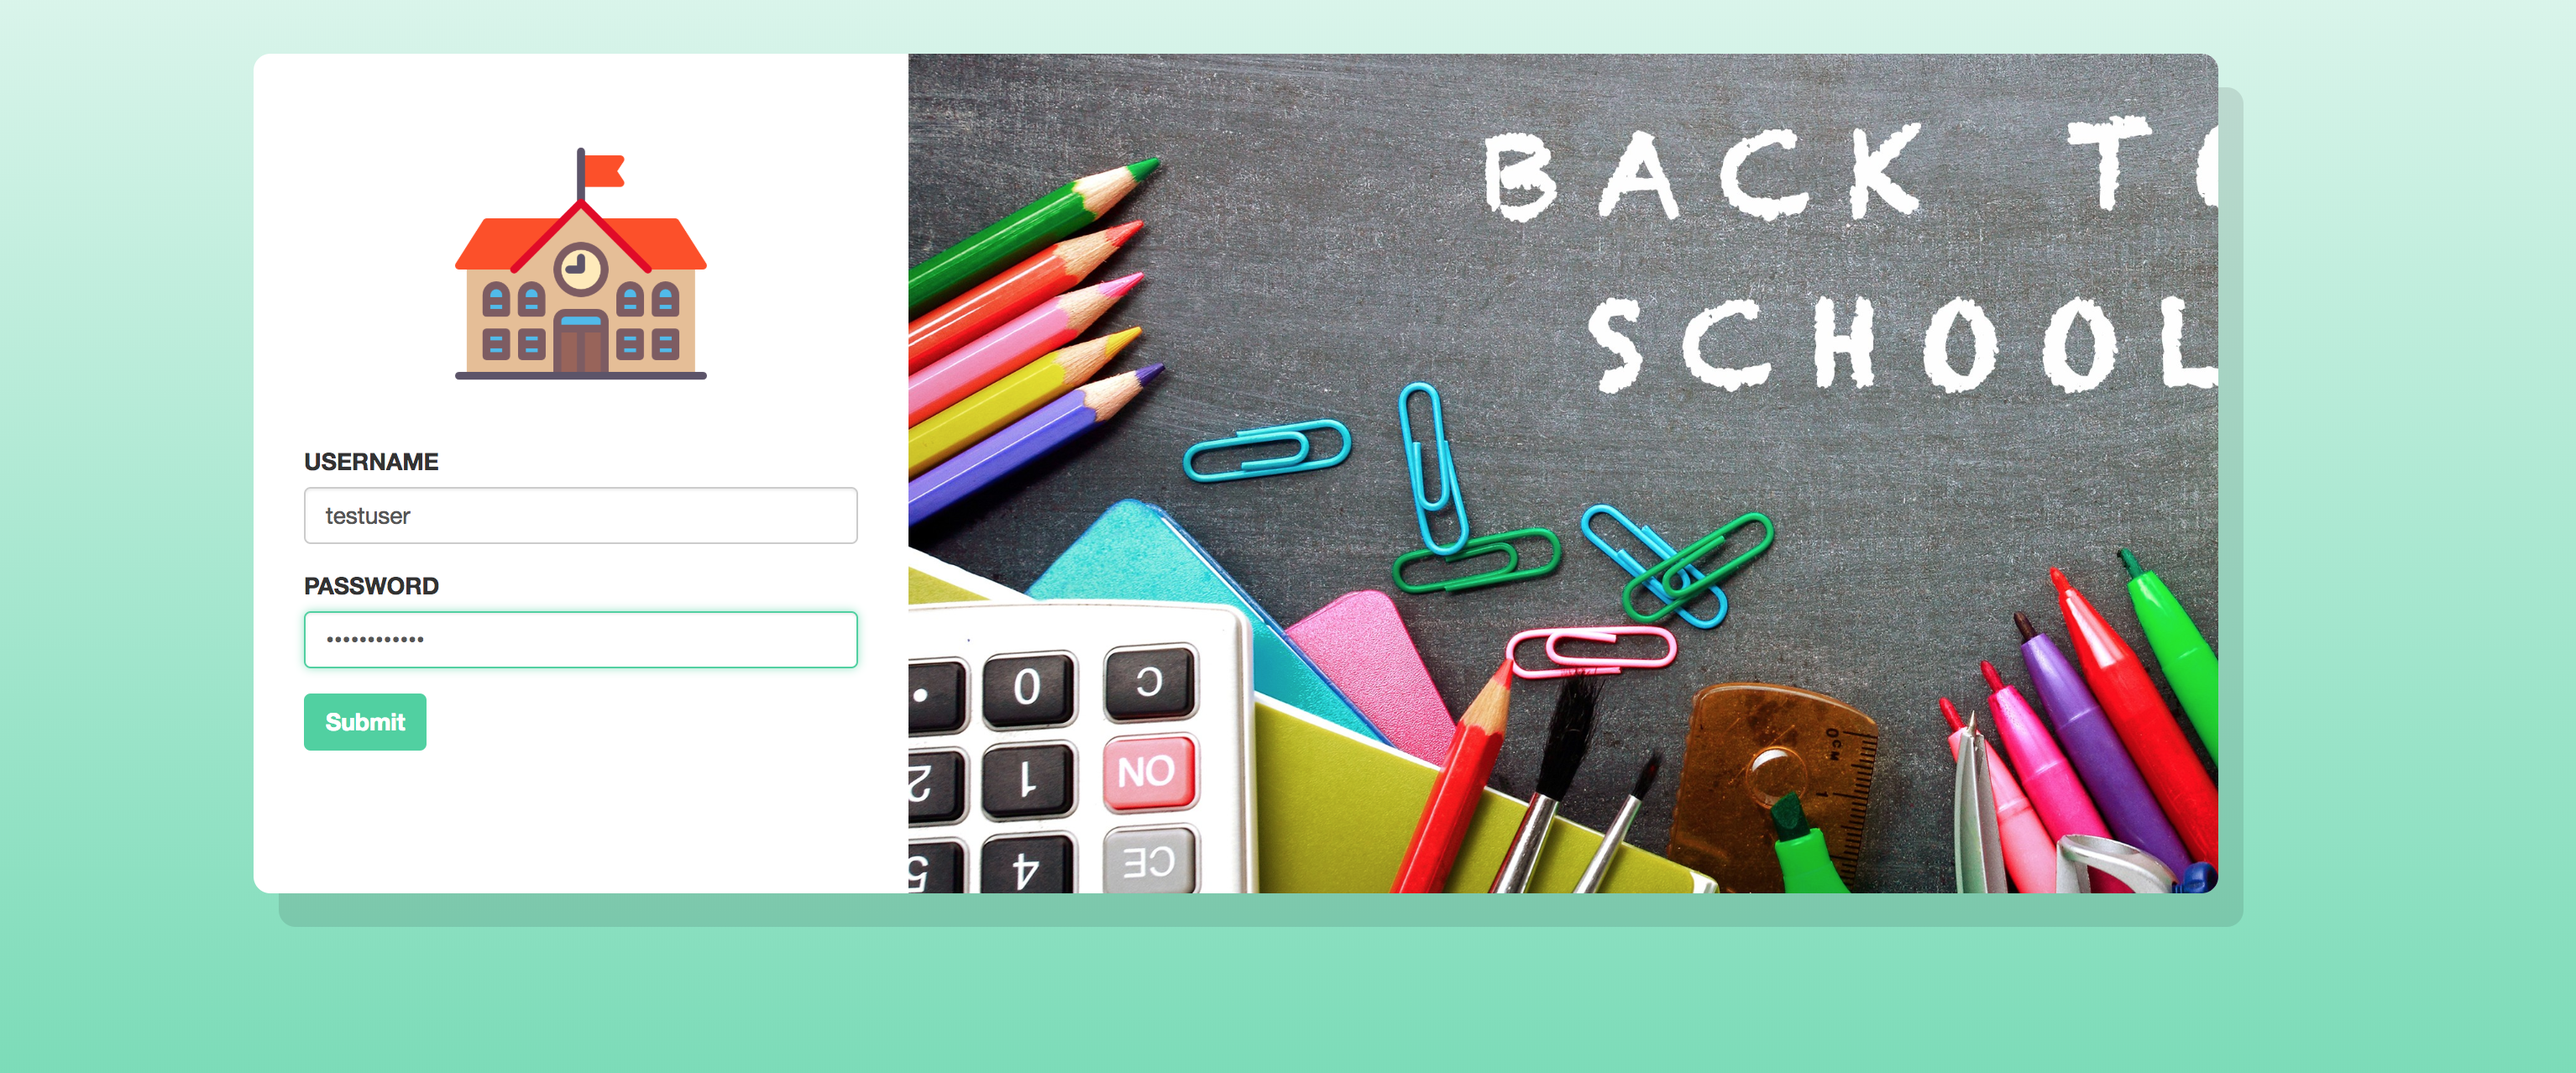
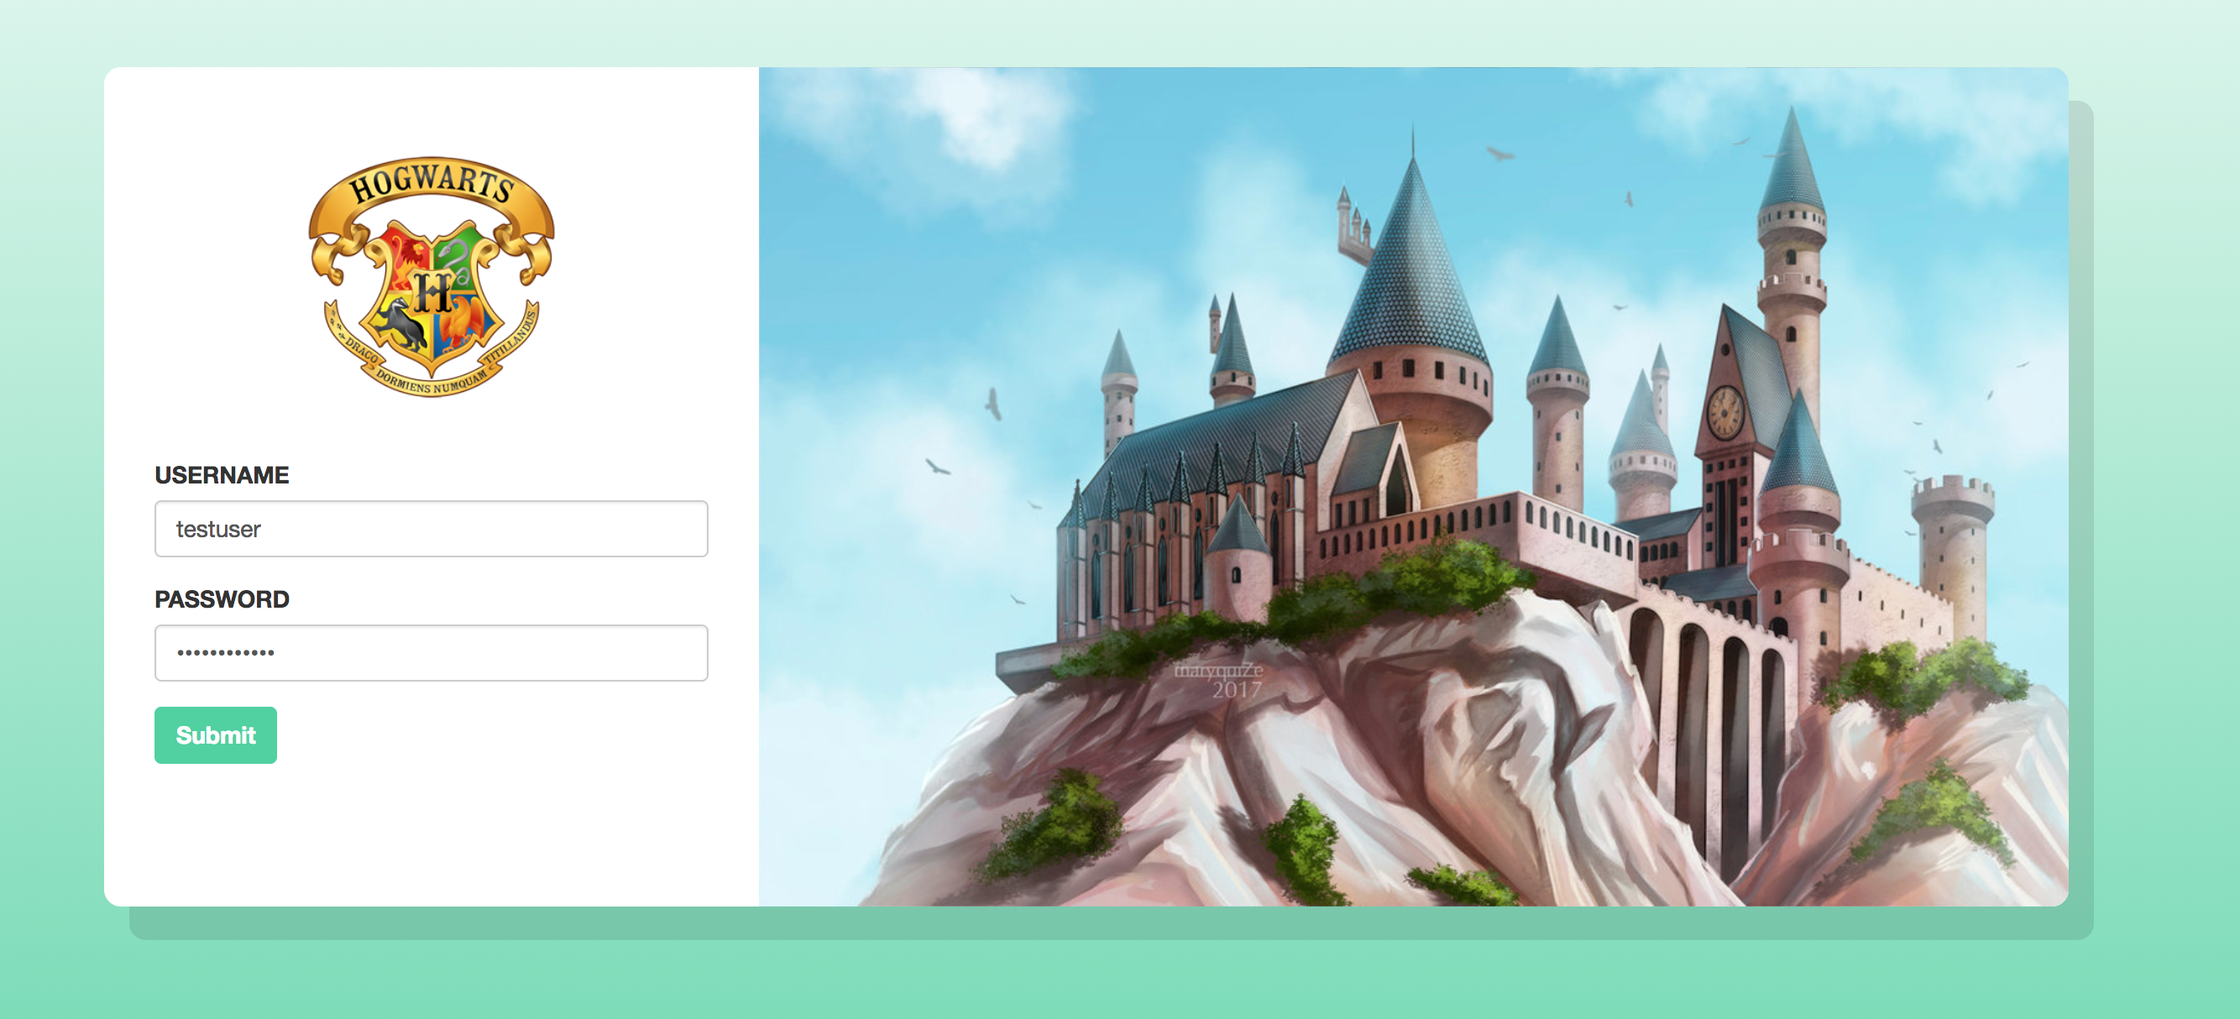
[Chore #159268104] Update app screenshots and images

diff --git a/app/templates/dashboard.html b/app/templates/dashboard.html
@@ -229,6 +229,7 @@
                                       <th>Staff ID</th>
                                       <th>First Name</th>
                                       <th>Last Name</th>
+                                      <th>Email Address</th>
                                       <th>Subjects Taught</th>
                                       <th>Edit</th>
                                       <th>Delete</th>
@@ -239,6 +240,7 @@
                                             <td>{{ teacher.staff_id }}</td>
                                             <td>{{ teacher.first_name }}</td>
                                             <td>{{ teacher.last_name }}</td>
+                                            <td>{{ teacher.email_address }}</td>
                                             <td>
                                               {% for subject in teacher.subjects_taught %}
                                                 {{ subject.name }}
@@ -319,7 +321,7 @@
                                     <thead class="text-success">
                                       <th>Subject ID</th>
                                       <th>Name</th>
-                                      <th>Description</th>
+                                      <th width="25%">Description</th>
                                       <th>Teacher</th>
                                       <th>Major Students</th>
                                       <th>Minor Students</th>

diff --git a/README.md b/README.md
@@ -91,11 +91,11 @@ username: testuser
 password: testpassword
 ```
 
-Dashboard:
-![App Dashboard](https://github.com/mbithenzomo/flask-student-api/blob/master/screenshots/app_dashboard.png)
-
 Login:
 ![User Login](https://github.com/mbithenzomo/flask-student-api/blob/master/screenshots/app_login.png)
+
+Dashboard:
+![App Dashboard](https://github.com/mbithenzomo/flask-student-api/blob/master/screenshots/app_dashboard.png)
 
 Displaying all students:
 ![Students](https://github.com/mbithenzomo/flask-student-api/blob/master/screenshots/app_students.png)
